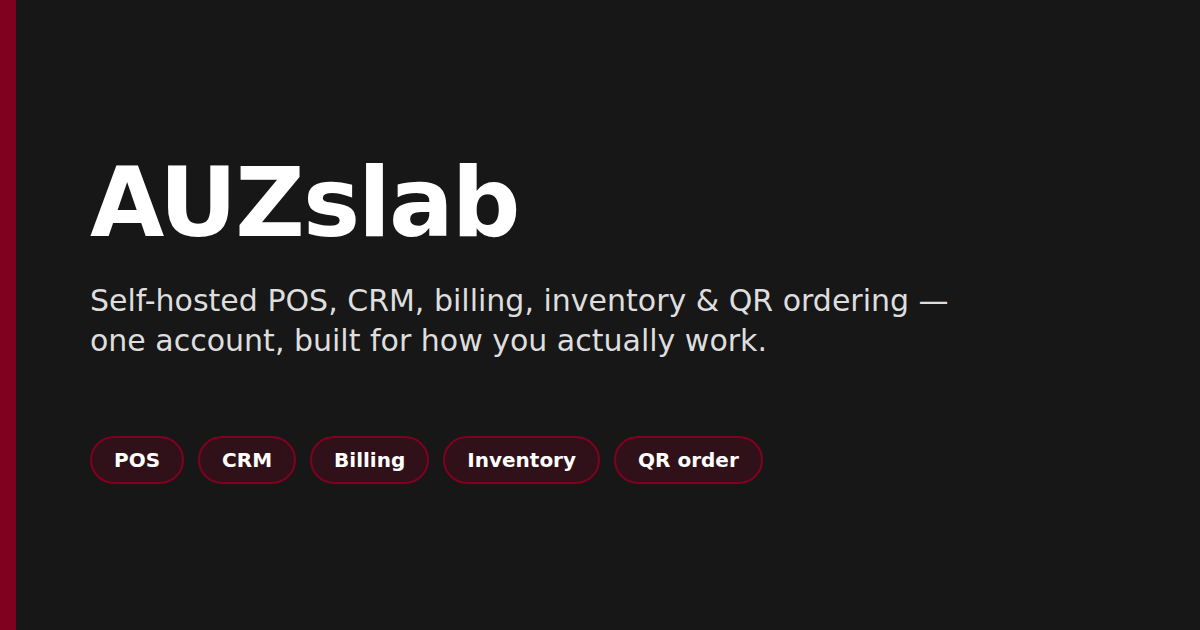
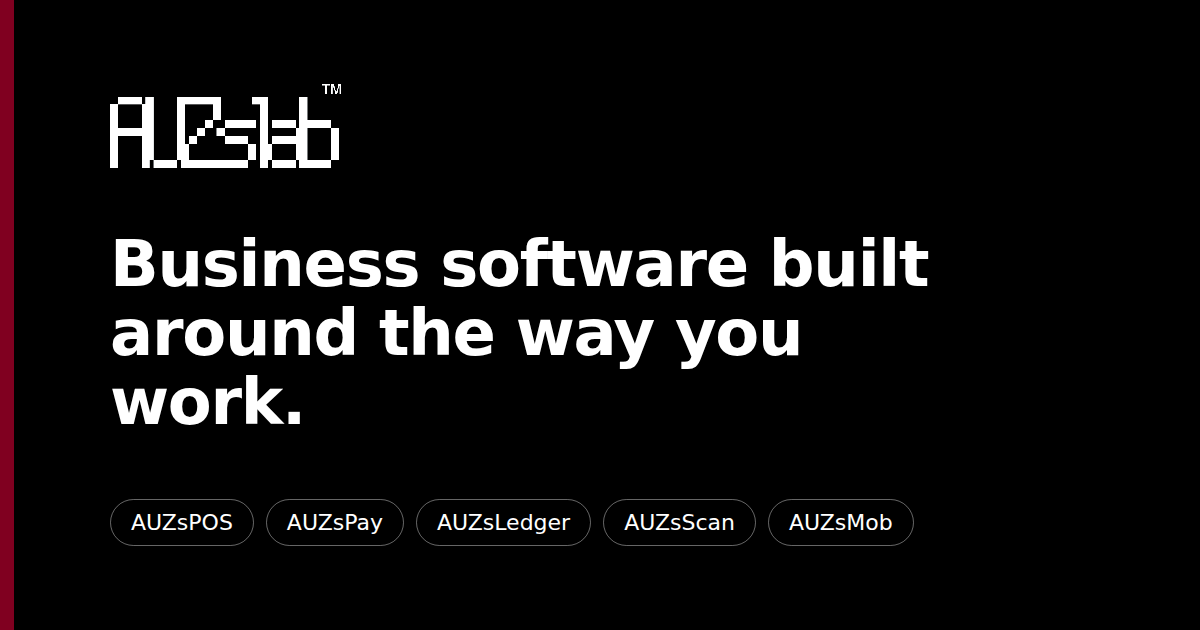
Launch polish: repair stale tests, new share image, admin black, open.html and salon strip layout fixes (#477)
Claude-Session: https://claude.ai/code/session_01Pa4Lb4EGmpi95LhBvD2fDN

diff --git a/site/admin.html b/site/admin.html
@@ -243,12 +243,12 @@ a.a-nav-row,a.a-side-btn{text-decoration:none}
 /* modal becomes a bottom sheet on phones */
 .hidden{display:none!important}
 .modal-overlay{align-items:flex-end;justify-content:center;padding:0}
-.modal{width:100%;max-width:none;border-radius:18px 18px 0 0;max-height:min(86vh,86dvh);overflow-y:auto;-webkit-overflow-scrolling:touch;padding:18px 18px calc(18px + env(safe-area-inset-bottom));box-shadow:0 -10px 40px -10px rgba(46,44,42,.3);animation:aSheetUp .28s cubic-bezier(.2,.8,.2,1)}
+.modal{width:100%;max-width:none;border-radius:18px 18px 0 0;max-height:min(86vh,86dvh);overflow-y:auto;-webkit-overflow-scrolling:touch;padding:18px 18px calc(18px + env(safe-area-inset-bottom));box-shadow:0 -10px 40px -10px rgba(0,0,0,.3);animation:aSheetUp .28s cubic-bezier(.2,.8,.2,1)}
 @keyframes aSheetUp{from{transform:translateY(100%)}to{transform:translateY(0)}}
 @media (min-width:600px){
   .a-main{padding:20px 24px 24px}
   .modal-overlay{align-items:center;padding:20px}
-  .modal{width:420px;max-width:calc(100vw - 40px);border-radius:22px;max-height:calc(100vh - 80px);animation:none;box-shadow:0 10px 28px -12px rgba(46,44,42,.30)}
+  .modal{width:420px;max-width:calc(100vw - 40px);border-radius:22px;max-height:calc(100vh - 80px);animation:none;box-shadow:0 10px 28px -12px rgba(0,0,0,.30)}
 }
 @media (min-width:860px){
   /* Bug found during the Master Frontend Mission's real-browser screenshot pass (tests/admin_shots.mjs):
@@ -284,8 +284,8 @@ a.a-nav-row,a.a-side-btn{text-decoration:none}
   --wine:#800020;--wine-soft:rgba(128,0,32,.08);--wine-glow:rgba(128,0,32,.14);
   --sand:#b8955a;--sand-soft:rgba(184,149,90,.14);--sage:#2f7a52;--sage-soft:rgba(47,122,82,.12);
   --slate:#4f6275;--slate-soft:rgba(79,98,117,.12);--amber:#a96a12;--amber-soft:rgba(201,138,28,.15);
-  --lift:0 1px 2px rgba(46,44,42,.05),0 10px 26px -14px rgba(46,44,42,.28);
-  --lift-hi:0 2px 4px rgba(46,44,42,.06),0 18px 38px -16px rgba(46,44,42,.34);
+  --lift:0 1px 2px rgba(0,0,0,.05),0 10px 26px -14px rgba(0,0,0,.28);
+  --lift-hi:0 2px 4px rgba(0,0,0,.06),0 18px 38px -16px rgba(0,0,0,.34);
   --out:cubic-bezier(.22,.8,.24,1);
 }
 @media (prefers-color-scheme:dark){:root:not([data-theme=light]){--card-bg:#2d2b29;--card-bg2:#33312f;--wine-soft:rgba(190,60,90,.16);--wine-glow:rgba(190,60,90,.2);--sand-soft:rgba(220,185,120,.14);--sage:#58b784;--sage-soft:rgba(88,183,132,.16);--slate:#8fa5ba;--slate-soft:rgba(143,165,186,.16);--amber:#e0a550;--amber-soft:rgba(224,165,80,.16);--lift:0 1px 2px rgba(0,0,0,.3),0 10px 26px -14px rgba(0,0,0,.6);--lift-hi:0 2px 4px rgba(0,0,0,.3),0 18px 38px -16px rgba(0,0,0,.7)}}
@@ -295,7 +295,7 @@ a.a-nav-row,a.a-side-btn{text-decoration:none}
 
 /* layer 2: bars */
 .a-topbar-title{letter-spacing:-.015em}
-.a-tabbar{box-shadow:0 -8px 22px -20px rgba(46,44,42,.45)}
+.a-tabbar{box-shadow:0 -8px 22px -20px rgba(0,0,0,.45)}
 .a-tab-btn{transition:color .25s var(--out),transform .2s var(--out)}
 .a-tab-btn svg{transition:transform .3s var(--out)}
 .a-tab-btn.on::before{content:'';position:absolute;top:-3px;left:30%;right:30%;height:3px;border-radius:0 0 3px 3px;background:var(--accent);animation:aGrow .35s var(--out) both}
@@ -368,7 +368,7 @@ body.admin-shell .btn-primary:hover{background:#940a2c}
 
 /* layer 7: desktop sidebar */
 @media (min-width:860px){
-  .a-side{background:var(--card-bg);box-shadow:1px 0 0 var(--line-soft),12px 0 30px -26px rgba(46,44,42,.4)}
+  .a-side{background:var(--card-bg);box-shadow:1px 0 0 var(--line-soft),12px 0 30px -26px rgba(0,0,0,.4)}
   .a-side-btn{position:relative;transition:background .2s var(--out),color .2s,transform .2s var(--out)}
   .a-side-btn:hover{background:var(--wine-soft);color:var(--ink);transform:translateX(2px)}
   .a-side-btn.on{background:var(--wine-soft);color:var(--accent)}
@@ -389,7 +389,7 @@ body.admin-shell .btn-primary:hover{background:#940a2c}
 /* ===== Floating pill tab bar (phones): the salon admin's navigation, in AUZslab charcoal and sand ===== */
 @media (max-width:599px){
   .a-tabbar{position:fixed;left:12px;right:12px;bottom:calc(12px + env(safe-area-inset-bottom));z-index:40;display:flex;gap:2px;
-    padding:6px;border-radius:22px;border:0;background:#2e2c2a;box-shadow:0 16px 32px -12px rgba(46,44,42,.55),0 0 0 1px rgba(255,255,255,.04)}
+    padding:6px;border-radius:22px;border:0;background:#000000;box-shadow:0 16px 32px -12px rgba(0,0,0,.55),0 0 0 1px rgba(255,255,255,.04)}
   .a-tab-btn{flex:1;min-height:0;padding:8px 2px 7px;border-radius:16px;gap:3px;color:#f5efe6;opacity:.82;font:500 11px var(--font-body);
     transition:opacity .2s var(--out),background .25s var(--out),color .2s,transform .12s var(--out)}
   .a-tab-btn svg{width:21px;height:21px}
@@ -397,7 +397,7 @@ body.admin-shell .btn-primary:hover{background:#940a2c}
   .a-tab-btn.on::before{display:none}
   .a-tab-btn.on svg{transform:none}
   .a-tab-btn:active{transform:scale(.92)}
-  .a-tab-badge{top:3px;right:calc(50% - 20px);background:#ecd6a8;color:#2e2c2a}
+  .a-tab-badge{top:3px;right:calc(50% - 20px);background:#ecd6a8;color:#000000}
 }
 
 .modal-overlay{animation:aFade .25s var(--out) both}

diff --git a/site/open.html b/site/open.html
@@ -20,8 +20,9 @@
 @media (prefers-color-scheme:dark){:root{--ink:#f4f1ed;--bg:#000000;--card:#222;--line:#38332f;--dim:#a39b93}}
 *{box-sizing:border-box}
 html,body{margin:0;min-height:100%;background:var(--bg);color:var(--ink);font:16px/1.5 -apple-system,BlinkMacSystemFont,"Segoe UI",Roboto,Helvetica,Arial,sans-serif;-webkit-text-size-adjust:100%}
-body{padding:max(20px,env(safe-area-inset-top)) 20px max(20px,env(safe-area-inset-bottom));display:flex;justify-content:center;background-image:linear-gradient(var(--line) 1px,transparent 1px),linear-gradient(90deg,var(--line) 1px,transparent 1px);background-size:32px 32px;background-position:-1px -1px}
+body{padding:max(20px,env(safe-area-inset-top)) 20px max(20px,env(safe-area-inset-bottom));display:flex;flex-direction:column;align-items:center;background-image:linear-gradient(var(--line) 1px,transparent 1px),linear-gradient(90deg,var(--line) 1px,transparent 1px);background-size:32px 32px;background-position:-1px -1px}
 main{width:100%;max-width:440px;margin:auto 0}
+.util-bar{align-self:stretch;margin:calc(-1 * max(20px,env(safe-area-inset-top))) -20px 20px}
 .brand{display:flex;align-items:center;gap:8px;margin:0 4px 18px;font:700 18px ui-monospace,Menlo,Consolas,monospace;letter-spacing:.04em}
 .brand i{display:inline-block;width:12px;height:12px;background:var(--accent)}
 .card{background:var(--card);border:1px solid var(--line);border-radius:24px;padding:28px 24px;box-shadow:0 8px 30px rgba(0,0,0,.06)}

diff --git a/site/business-cafes.html b/site/business-cafes.html
@@ -27,7 +27,7 @@
 <link rel="icon" href="/logo.png">
 <link rel="apple-touch-icon" href="/apple-touch-icon.png">
 <link rel="manifest" href="/manifest.json">
-<link rel="stylesheet" href="theme.css?v=159"><link rel="stylesheet" href="menu.css?v=103" media="(max-width:860px)"><link rel="stylesheet" href="reach.css?v=101"><link rel="stylesheet" href="balance.css?v=103" media="(min-width:1000px)"><script src="theme.js?v=101"></script>
+<link rel="stylesheet" href="theme.css?v=160"><link rel="stylesheet" href="menu.css?v=103" media="(max-width:860px)"><link rel="stylesheet" href="reach.css?v=101"><link rel="stylesheet" href="balance.css?v=103" media="(min-width:1000px)"><script src="theme.js?v=101"></script>
 <link rel="stylesheet" href="design-system/ui-kit.css?v=103">
 <link rel="preconnect" href="https://fonts.googleapis.com">
 <link rel="preconnect" href="https://fonts.gstatic.com" crossorigin>

diff --git a/site/business-salons.html b/site/business-salons.html
@@ -27,7 +27,7 @@
 <link rel="icon" href="/logo.png">
 <link rel="apple-touch-icon" href="/apple-touch-icon.png">
 <link rel="manifest" href="/manifest.json">
-<link rel="stylesheet" href="theme.css?v=159"><link rel="stylesheet" href="menu.css?v=103" media="(max-width:860px)"><link rel="stylesheet" href="reach.css?v=101"><link rel="stylesheet" href="balance.css?v=103" media="(min-width:1000px)"><script src="theme.js?v=101"></script>
+<link rel="stylesheet" href="theme.css?v=160"><link rel="stylesheet" href="menu.css?v=103" media="(max-width:860px)"><link rel="stylesheet" href="reach.css?v=101"><link rel="stylesheet" href="balance.css?v=103" media="(min-width:1000px)"><script src="theme.js?v=101"></script>
 <link rel="stylesheet" href="design-system/ui-kit.css?v=103">
 <link rel="preconnect" href="https://fonts.googleapis.com">
 <link rel="preconnect" href="https://fonts.gstatic.com" crossorigin>

diff --git a/site/theme.css b/site/theme.css
@@ -524,6 +524,7 @@ body.menu-open .knock-btn{opacity:0;pointer-events:none;transform:translateY(14p
 #salon-plans .sp-strip-pitch b{font-family:var(--font-display);font-size:13px;display:block}
 #salon-plans .sp-strip-pitch small{color:var(--ink-faint);font-size:11px;display:block;margin-top:3px}
 #salon-plans .sp-strip-price{white-space:nowrap}
+@media(max-width:360px){#salon-plans .sp-strip{grid-template-columns:1fr;gap:12px;padding:16px}#salon-plans .sp-strip-price{white-space:normal}}
 #salon-plans .sp-strip-price b{font-family:var(--font-mono);font-size:10px;text-transform:uppercase;letter-spacing:.04em;color:var(--ink-faint);display:block;margin-bottom:4px}
 #salon-plans .sp-strip-amt{font-family:var(--font-display);font-weight:700;font-size:21px;letter-spacing:-.03em}
 #salon-plans .sp-strip-per{font-family:var(--font-mono);font-size:10.5px;color:var(--ink-faint)}

diff --git a/site/business-clothing.html b/site/business-clothing.html
@@ -27,7 +27,7 @@
 <link rel="icon" href="/logo.png">
 <link rel="apple-touch-icon" href="/apple-touch-icon.png">
 <link rel="manifest" href="/manifest.json">
-<link rel="stylesheet" href="theme.css?v=154"><link rel="stylesheet" href="menu.css?v=103" media="(max-width:860px)"><link rel="stylesheet" href="balance.css?v=103" media="(min-width:1000px)"><script src="theme.js?v=101"></script>
+<link rel="stylesheet" href="theme.css?v=155"><link rel="stylesheet" href="menu.css?v=103" media="(max-width:860px)"><link rel="stylesheet" href="balance.css?v=103" media="(min-width:1000px)"><script src="theme.js?v=101"></script>
 <link rel="stylesheet" href="design-system/ui-kit.css?v=103">
 <link rel="preconnect" href="https://fonts.googleapis.com">
 <link rel="preconnect" href="https://fonts.gstatic.com" crossorigin>

diff --git a/site/business-mobile-repair.html b/site/business-mobile-repair.html
@@ -27,7 +27,7 @@
 <link rel="icon" href="/logo.png">
 <link rel="apple-touch-icon" href="/apple-touch-icon.png">
 <link rel="manifest" href="/manifest.json">
-<link rel="stylesheet" href="theme.css?v=154"><link rel="stylesheet" href="menu.css?v=103" media="(max-width:860px)"><link rel="stylesheet" href="balance.css?v=103" media="(min-width:1000px)"><script src="theme.js?v=101"></script>
+<link rel="stylesheet" href="theme.css?v=155"><link rel="stylesheet" href="menu.css?v=103" media="(max-width:860px)"><link rel="stylesheet" href="balance.css?v=103" media="(min-width:1000px)"><script src="theme.js?v=101"></script>
 <link rel="stylesheet" href="design-system/ui-kit.css?v=103">
 <link rel="preconnect" href="https://fonts.googleapis.com">
 <link rel="preconnect" href="https://fonts.gstatic.com" crossorigin>

diff --git a/site/business-retail.html b/site/business-retail.html
@@ -27,7 +27,7 @@
 <link rel="icon" href="/logo.png">
 <link rel="apple-touch-icon" href="/apple-touch-icon.png">
 <link rel="manifest" href="/manifest.json">
-<link rel="stylesheet" href="theme.css?v=154"><link rel="stylesheet" href="menu.css?v=103" media="(max-width:860px)"><link rel="stylesheet" href="balance.css?v=103" media="(min-width:1000px)"><script src="theme.js?v=101"></script>
+<link rel="stylesheet" href="theme.css?v=155"><link rel="stylesheet" href="menu.css?v=103" media="(max-width:860px)"><link rel="stylesheet" href="balance.css?v=103" media="(min-width:1000px)"><script src="theme.js?v=101"></script>
 <link rel="stylesheet" href="design-system/ui-kit.css?v=103">
 <link rel="preconnect" href="https://fonts.googleapis.com">
 <link rel="preconnect" href="https://fonts.gstatic.com" crossorigin>

diff --git a/site/contact.html b/site/contact.html
@@ -27,7 +27,7 @@
 <link rel="icon" href="/logo.png">
 <link rel="apple-touch-icon" href="/apple-touch-icon.png">
 <link rel="manifest" href="/manifest.json">
-<link rel="stylesheet" href="theme.css?v=154"><link rel="stylesheet" href="menu.css?v=103" media="(max-width:860px)"><link rel="stylesheet" href="balance.css?v=103" media="(min-width:1000px)"><script src="theme.js?v=101"></script>
+<link rel="stylesheet" href="theme.css?v=155"><link rel="stylesheet" href="menu.css?v=103" media="(max-width:860px)"><link rel="stylesheet" href="balance.css?v=103" media="(min-width:1000px)"><script src="theme.js?v=101"></script>
 <link rel="stylesheet" href="design-system/ui-kit.css?v=103">
 <link rel="preconnect" href="https://fonts.googleapis.com">
 <link rel="preconnect" href="https://fonts.gstatic.com" crossorigin>

diff --git a/site/download-apps.html b/site/download-apps.html
@@ -27,7 +27,7 @@
 <link rel="icon" href="/logo.png">
 <link rel="apple-touch-icon" href="/apple-touch-icon.png">
 <link rel="manifest" href="/manifest.json">
-<link rel="stylesheet" href="theme.css?v=154"><link rel="stylesheet" href="menu.css?v=103" media="(max-width:860px)"><link rel="stylesheet" href="balance.css?v=103" media="(min-width:1000px)"><script src="theme.js?v=101"></script>
+<link rel="stylesheet" href="theme.css?v=155"><link rel="stylesheet" href="menu.css?v=103" media="(max-width:860px)"><link rel="stylesheet" href="balance.css?v=103" media="(min-width:1000px)"><script src="theme.js?v=101"></script>
 <link rel="stylesheet" href="design-system/ui-kit.css?v=103">
 <link rel="preconnect" href="https://fonts.googleapis.com">
 <link rel="preconnect" href="https://fonts.gstatic.com" crossorigin>

diff --git a/site/intelligence.html b/site/intelligence.html
@@ -27,7 +27,7 @@
 <link rel="icon" href="/logo.png">
 <link rel="apple-touch-icon" href="/apple-touch-icon.png">
 <link rel="manifest" href="/manifest.json">
-<link rel="stylesheet" href="theme.css?v=154"><link rel="stylesheet" href="menu.css?v=103" media="(max-width:860px)"><link rel="stylesheet" href="balance.css?v=103" media="(min-width:1000px)"><script src="theme.js?v=101"></script>
+<link rel="stylesheet" href="theme.css?v=155"><link rel="stylesheet" href="menu.css?v=103" media="(max-width:860px)"><link rel="stylesheet" href="balance.css?v=103" media="(min-width:1000px)"><script src="theme.js?v=101"></script>
 <link rel="stylesheet" href="design-system/ui-kit.css?v=103">
 <link rel="preconnect" href="https://fonts.googleapis.com">
 <link rel="preconnect" href="https://fonts.gstatic.com" crossorigin>

diff --git a/site/join-team.html b/site/join-team.html
@@ -27,7 +27,7 @@
 <link rel="icon" href="/logo.png">
 <link rel="apple-touch-icon" href="/apple-touch-icon.png">
 <link rel="manifest" href="/manifest.json">
-<link rel="stylesheet" href="theme.css?v=154"><link rel="stylesheet" href="menu.css?v=103" media="(max-width:860px)"><link rel="stylesheet" href="balance.css?v=103" media="(min-width:1000px)"><script src="theme.js?v=101"></script>
+<link rel="stylesheet" href="theme.css?v=155"><link rel="stylesheet" href="menu.css?v=103" media="(max-width:860px)"><link rel="stylesheet" href="balance.css?v=103" media="(min-width:1000px)"><script src="theme.js?v=101"></script>
 <link rel="stylesheet" href="design-system/ui-kit.css?v=103">
 <link rel="preconnect" href="https://fonts.googleapis.com">
 <link rel="preconnect" href="https://fonts.gstatic.com" crossorigin>
